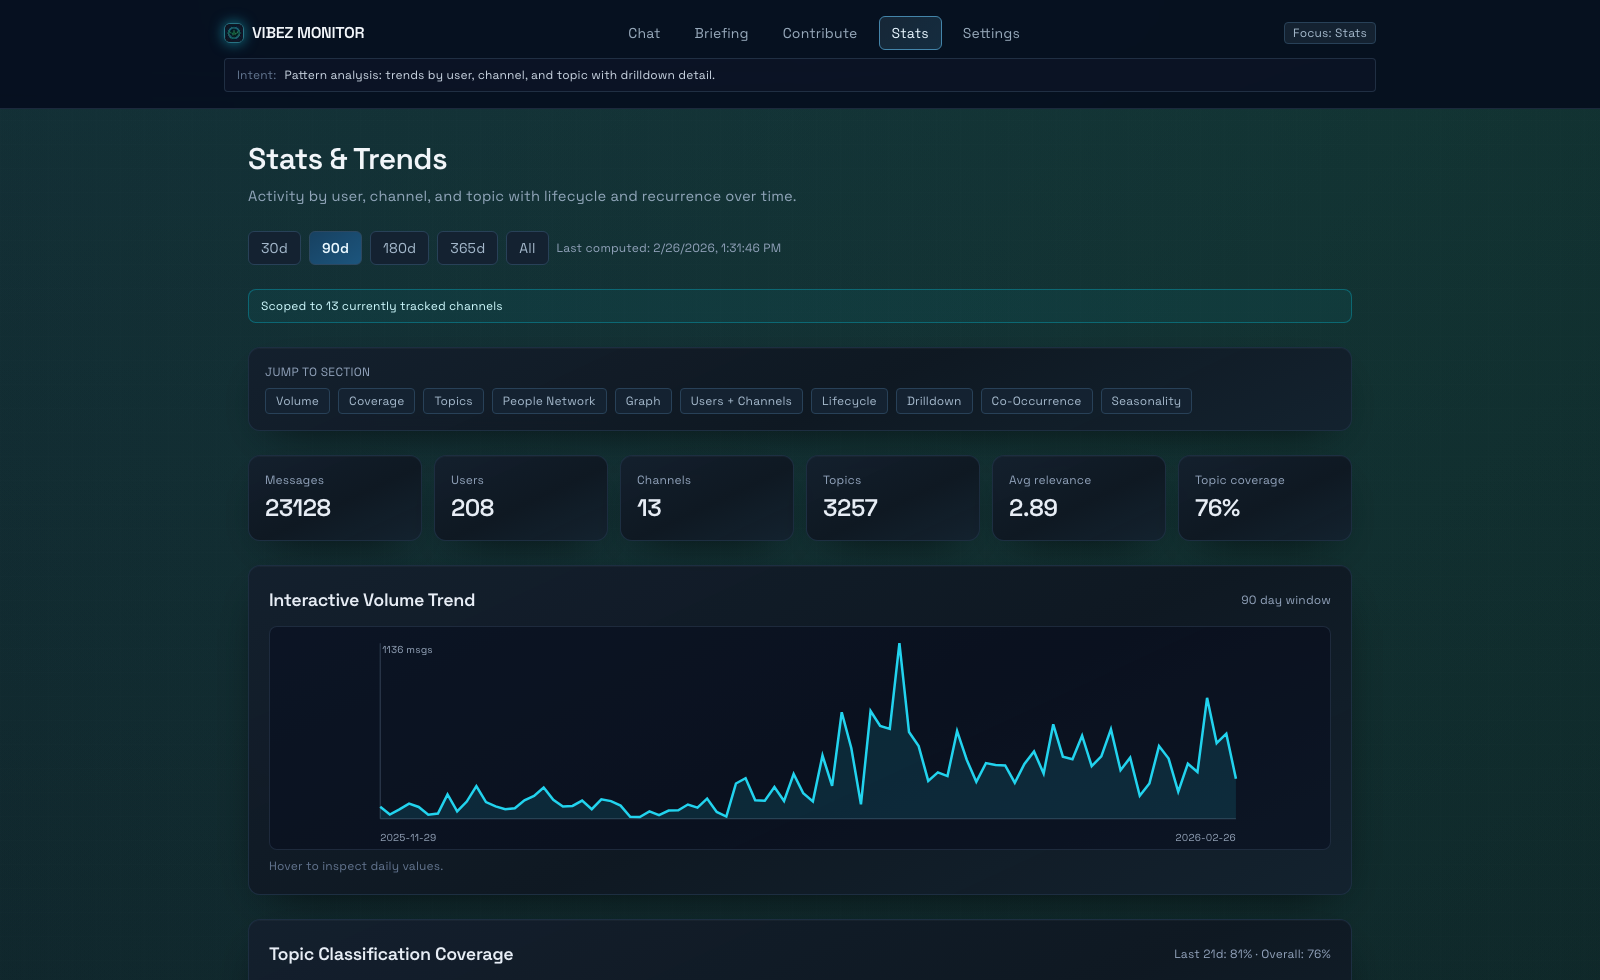
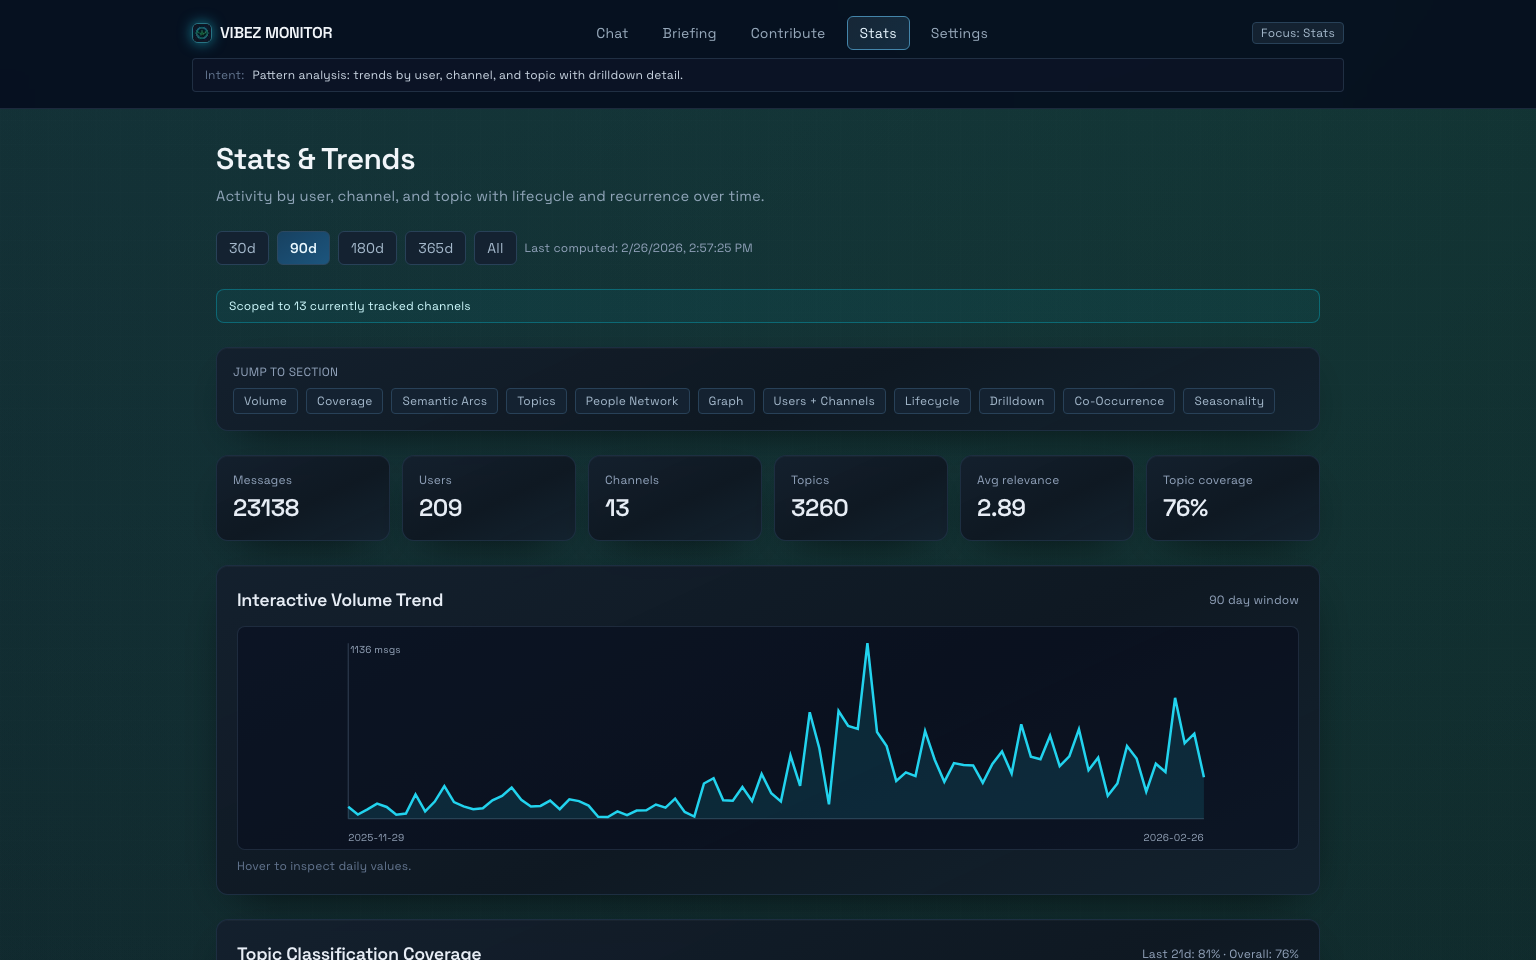
docs: refresh README with live screenshots and network graph

diff --git a/README.md b/README.md
@@ -4,6 +4,8 @@ AGI community briefing app for high-volume group chats.
 
 It ingests Beeper Desktop messages, classifies relevance + contribution opportunities, generates a daily briefing, and serves an interactive dashboard with chat, briefing, contribution, and stats workflows.
 
+Built for personal intelligence workflows, but structured so anyone can run it with their own profile, groups, and priorities.
+
 ## Live Screenshots (February 26, 2026)
 
 | Chat Agent | Executive Briefing |
@@ -13,6 +15,17 @@ It ingests Beeper Desktop messages, classifies relevance + contribution opportun
 | Contribution Priorities | Stats + Trends |
 | --- | --- |
 | ![Contribution Priorities](docs/screenshots/contribution-priorities.png) | ![Stats and Trends](docs/screenshots/network-stats.png) |
+
+| People Relationship Network | Settings |
+| --- | --- |
+| ![People Relationship Network](docs/screenshots/network-graph.png) | ![Settings](docs/screenshots/settings.png) |
+
+## Why It Exists
+
+- High-velocity communities produce too much signal for manual tracking.
+- Important follow-ups get buried without explicit prioritization.
+- Relationship context (who is central, who connects clusters, who to follow up with) is difficult to keep in working memory.
+- Daily briefing quality improves when synthesis uses both lexical and semantic retrieval.
 
 ## What It Does
 
@@ -31,6 +44,31 @@ It ingests Beeper Desktop messages, classifies relevance + contribution opportun
   - `Contribute` prioritization model
   - `Stats` trends, coverage, network views, and semantic arc clustering/drift checks
   - semantic boosts for Chat retrieval, Radar arc evidence, and Contribute opportunity density when pgvector is enabled
+
+## Feature Highlights
+
+- Chat agent over your local message corpus with source-grounded answers.
+- Executive briefing with snapshot, daily memo, evidence, and radar arcs.
+- Contribution opportunity model balancing urgency, need, leverage, aging risk, and blockers.
+- Stats and trends with lifecycle analysis, co-occurrence, drilldowns, and people network graphing.
+- Interactive people network with zoom/pan, filtering, and method transparency for relationship inference.
+- Optional pgvector hybrid retrieval for semantic arcs, drift checks, and stronger evidence recall.
+
+## Architecture At A Glance
+
+1. `run_sync.py` ingests Beeper desktop API data and normalizes messages into SQLite.
+2. Classification enriches messages with relevance, topics, needs, and contribution signals.
+3. Optional pgvector indexing mirrors embeddings for semantic retrieval and clustering.
+4. `run_synthesis.py` generates daily briefing artifacts and chat context resources.
+5. Next.js API routes read SQLite/pgvector-backed analytics and expose dashboard endpoints.
+6. Dashboard UI provides Chat, Briefing, Contribute, Stats, and Settings workflows.
+
+## Data and Privacy Model
+
+- Everything runs locally by default.
+- Beeper API access is local desktop-only and reflects what your current client can decrypt/render.
+- `.env`, `vibez.db`, generated logs, and local artifacts should stay out of git.
+- This repo is source-public friendly; runtime data remains user-private.
 
 ## Repo Layout
 
@@ -103,6 +141,13 @@ backend/.venv/bin/python backend/scripts/pgvector_index.py --lookback-days 180
 3. Keep embeddings current:
 
 - `backend/scripts/run_sync.py` now auto-indexes newly synced/classified rows when `VIBEZ_PGVECTOR_URL` is set.
+
+Where pgvector materially improves output:
+
+- Chat: better recall for concept-similar questions when exact keywords differ.
+- Briefing: stronger arc detection, semantic evidence clustering, and drift risk checks.
+- Contribute: improved opportunity density around semantically related contribution patterns.
+- Stats: semantic coverage/orphan monitoring and arc trend diagnostics.
 
 ## Profile Personalization
 
